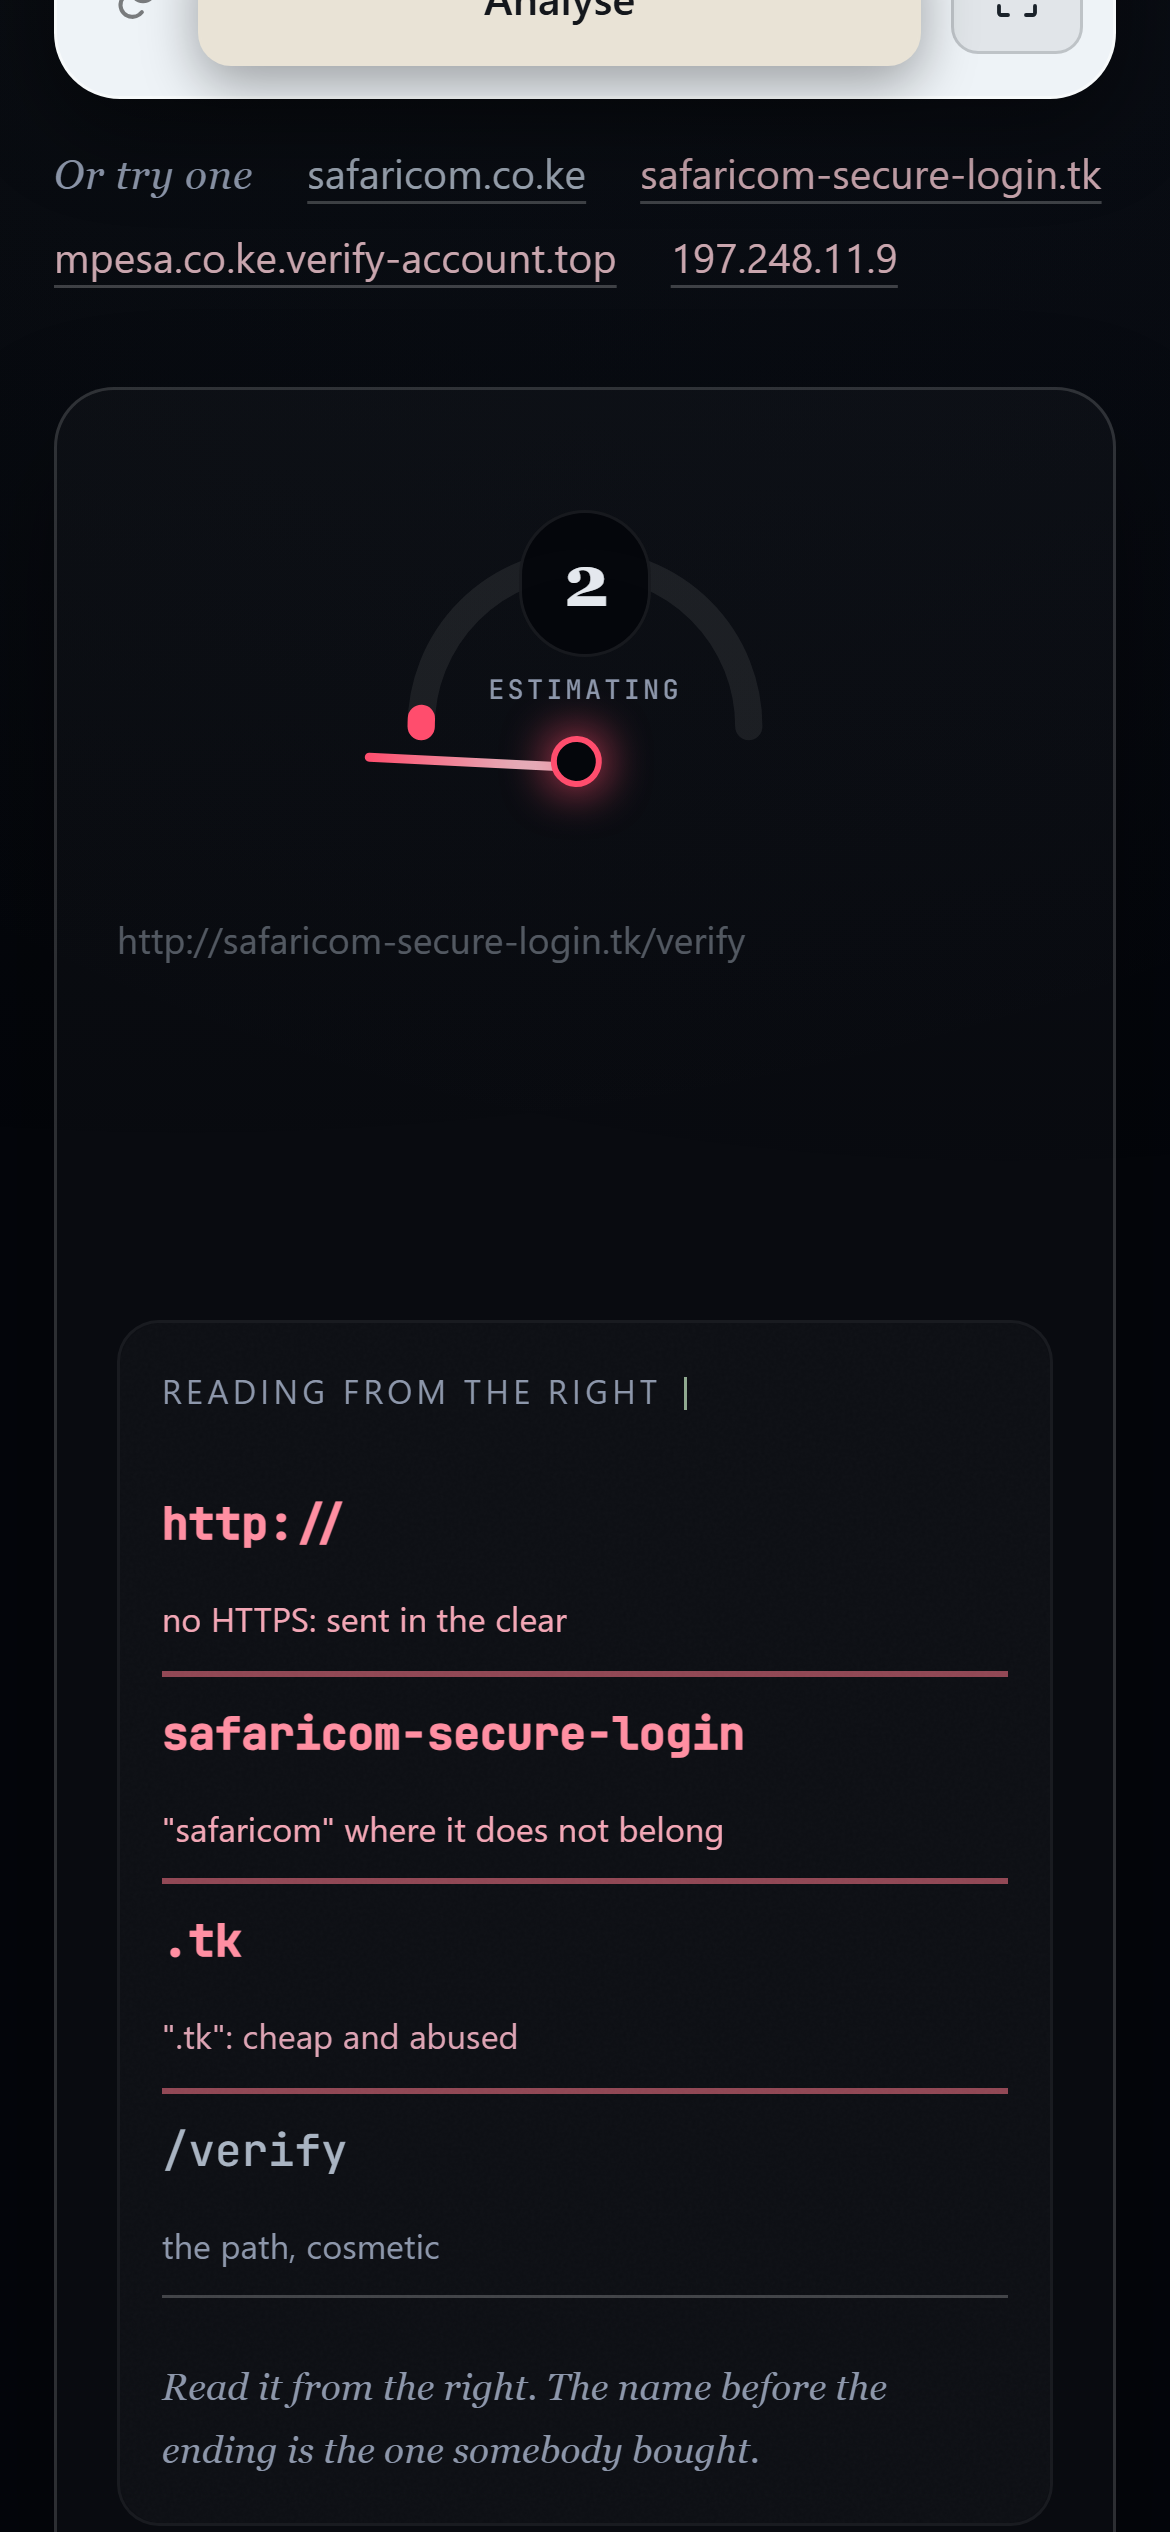
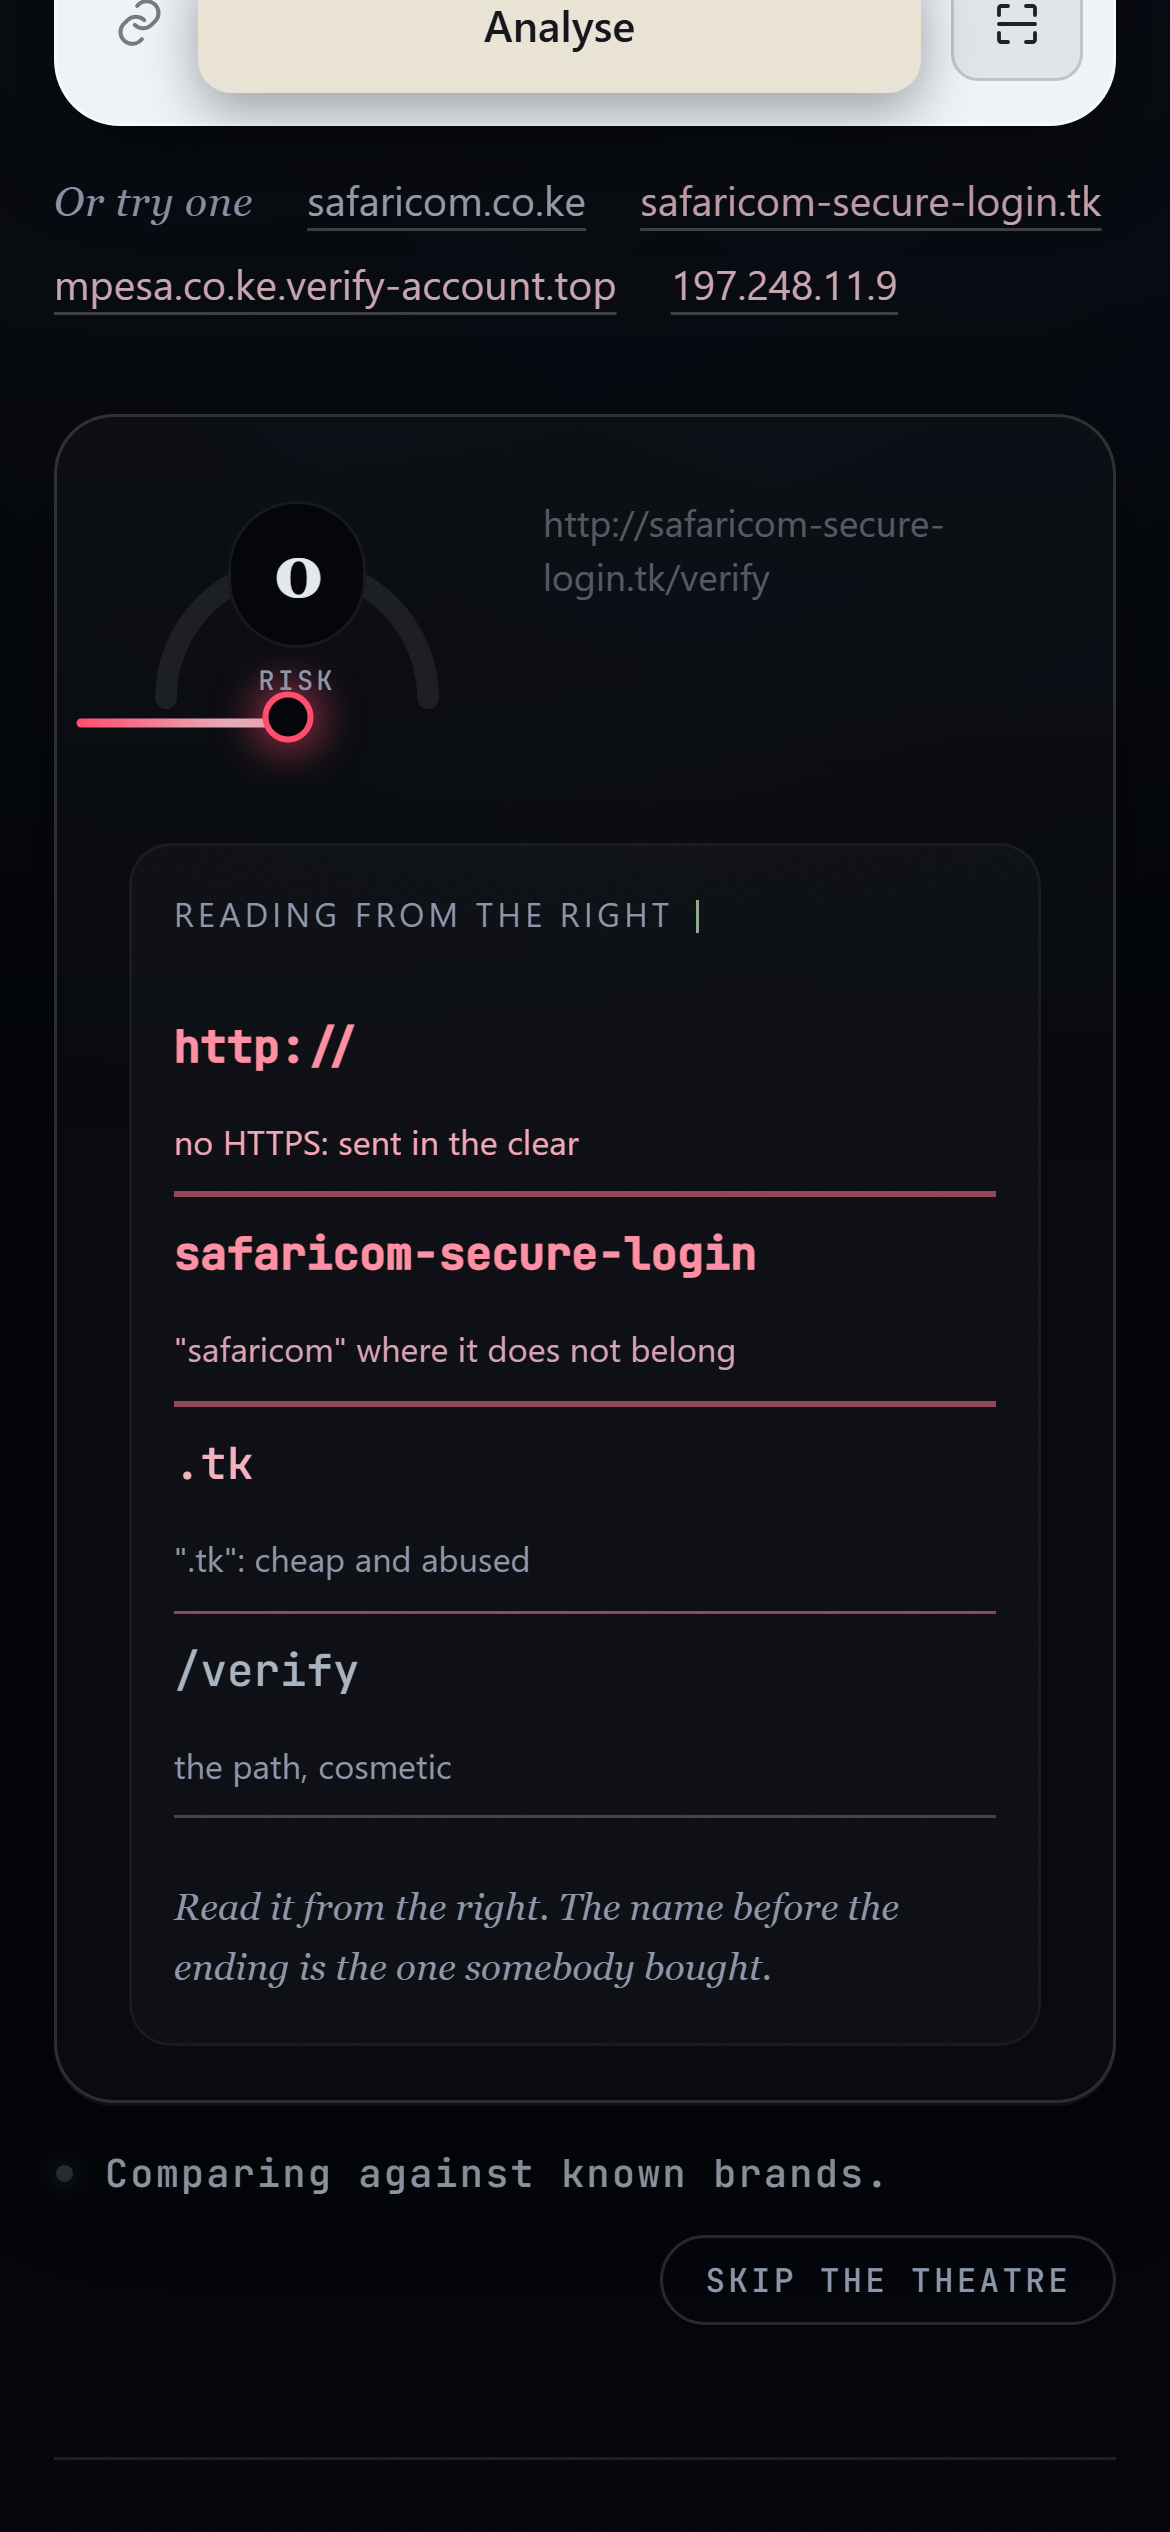
Tighten the reading card, and stop the reminder reciting finished work
- the score note was reserving seventy nine pixels of invisible height while the address
  was being read. It is part of the verdict, so it now waits for it
- the dial row was as tall as the dial, which left a band of nothing under the address.
  Dial and address start together at the top of that row, and the dissection follows
  directly

The reminder was rewritten to read docs/BACKLOG.md instead of carrying a frozen list, so
it stops asking for work that was finished hours ago and points at the three items that
are actually blocked.

diff --git a/app/static/styles.css b/app/static/styles.css
@@ -3550,3 +3550,25 @@ code, kbd, samp{
 @media (max-width: 700px) {
   .verdict-head .autopsy { grid-column: 1 / -1; }
 }
+
+/* the score note reserved 79px of invisible height while the reading was under way,
+   which is the last gap in the pending card. It is part of the verdict, so it waits. */
+.result.pending .score-note { display: none !important; }
+
+/* the pending row was as tall as the dial, which left a band of nothing under the
+   address. The dial and the address start together at the top of that row now. */
+.result.pending .verdict-head {
+  align-items: start !important;
+  grid-template-columns: 118px 1fr !important;
+  gap: 20px !important;
+  padding: 20px 24px 16px !important;
+}
+
+.result.pending .gauge {
+  width: 112px !important;
+  height: 96px !important;
+  margin: 0 !important;
+}
+
+.result.pending .verdict-text { padding-top: 6px !important; }
+.result.pending .verdict-head .autopsy { margin-top: 6px !important; }
